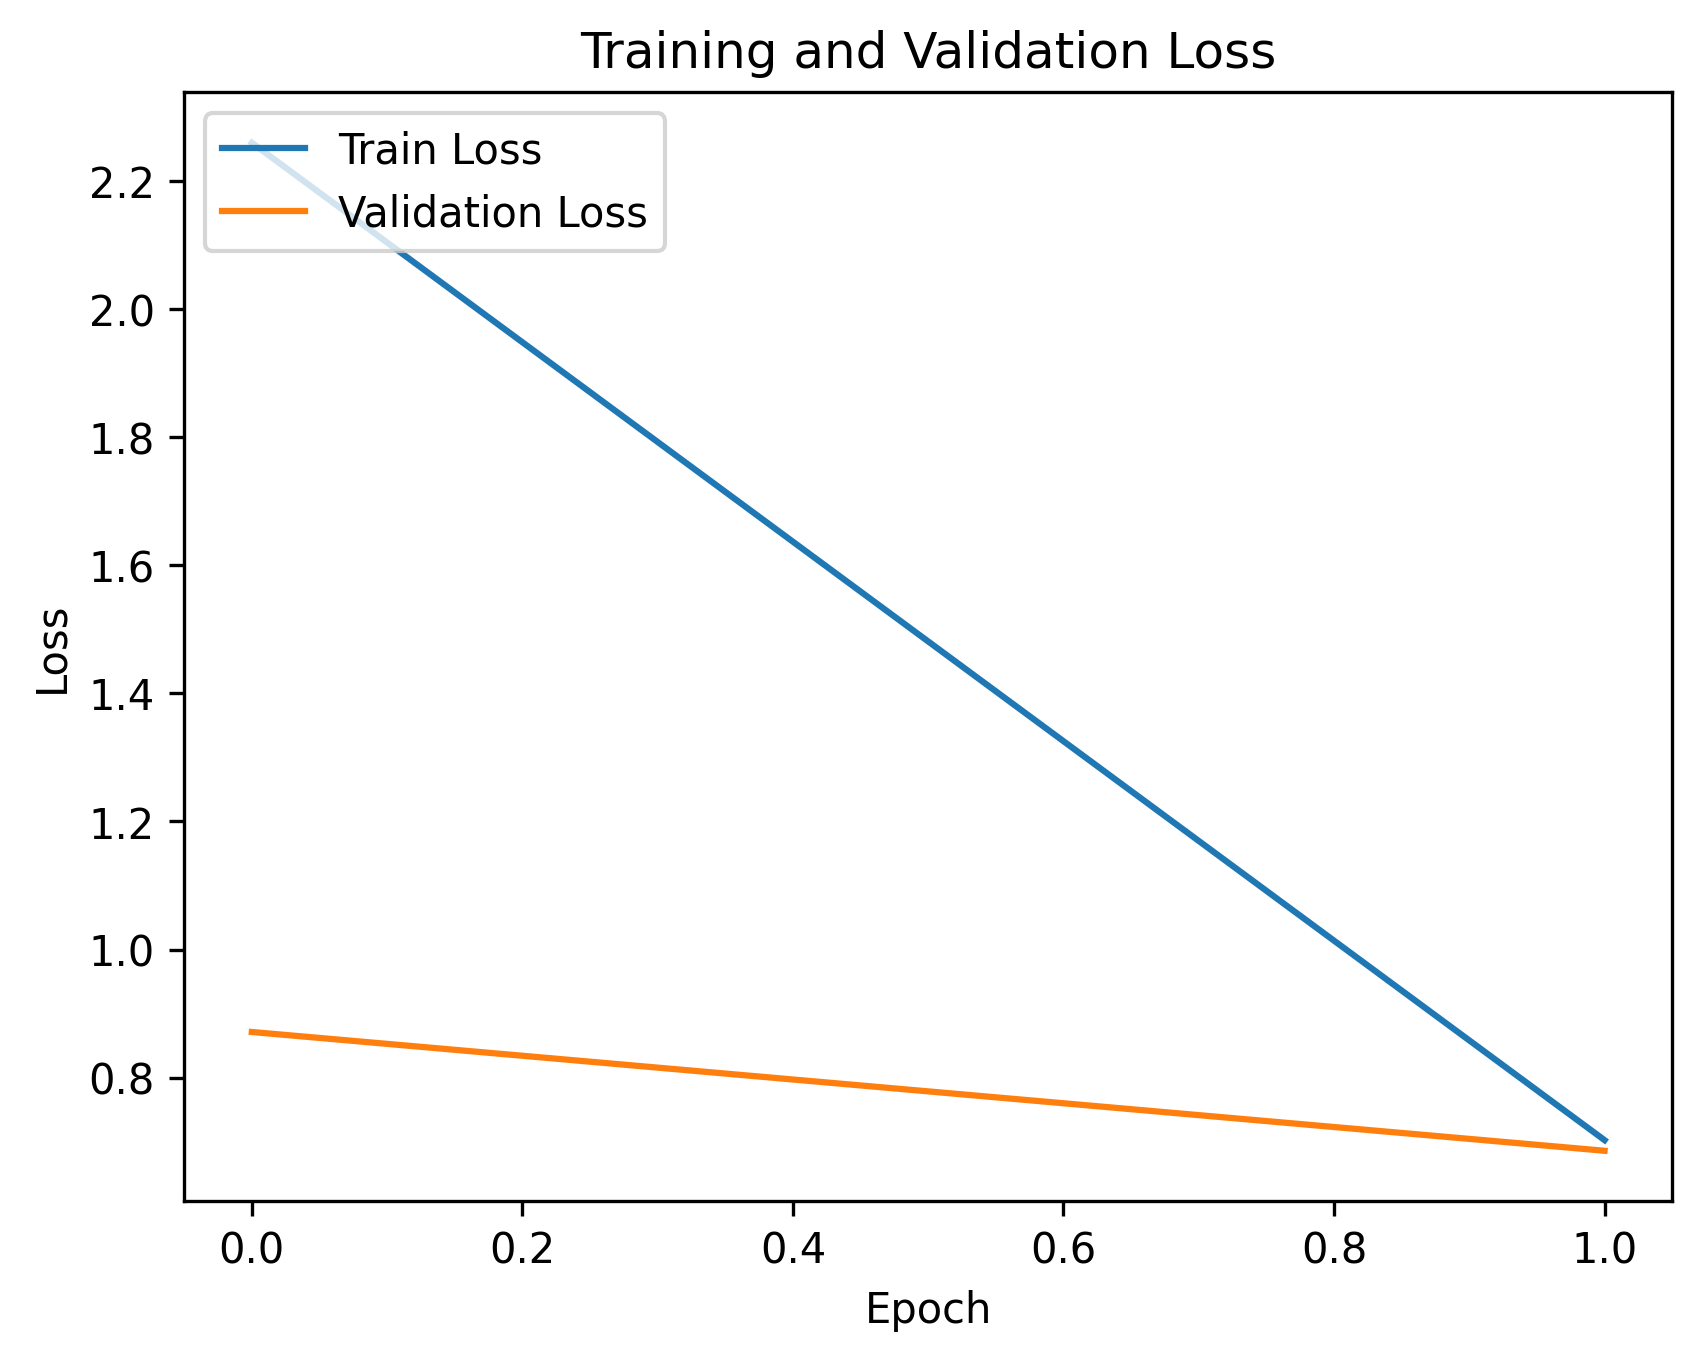
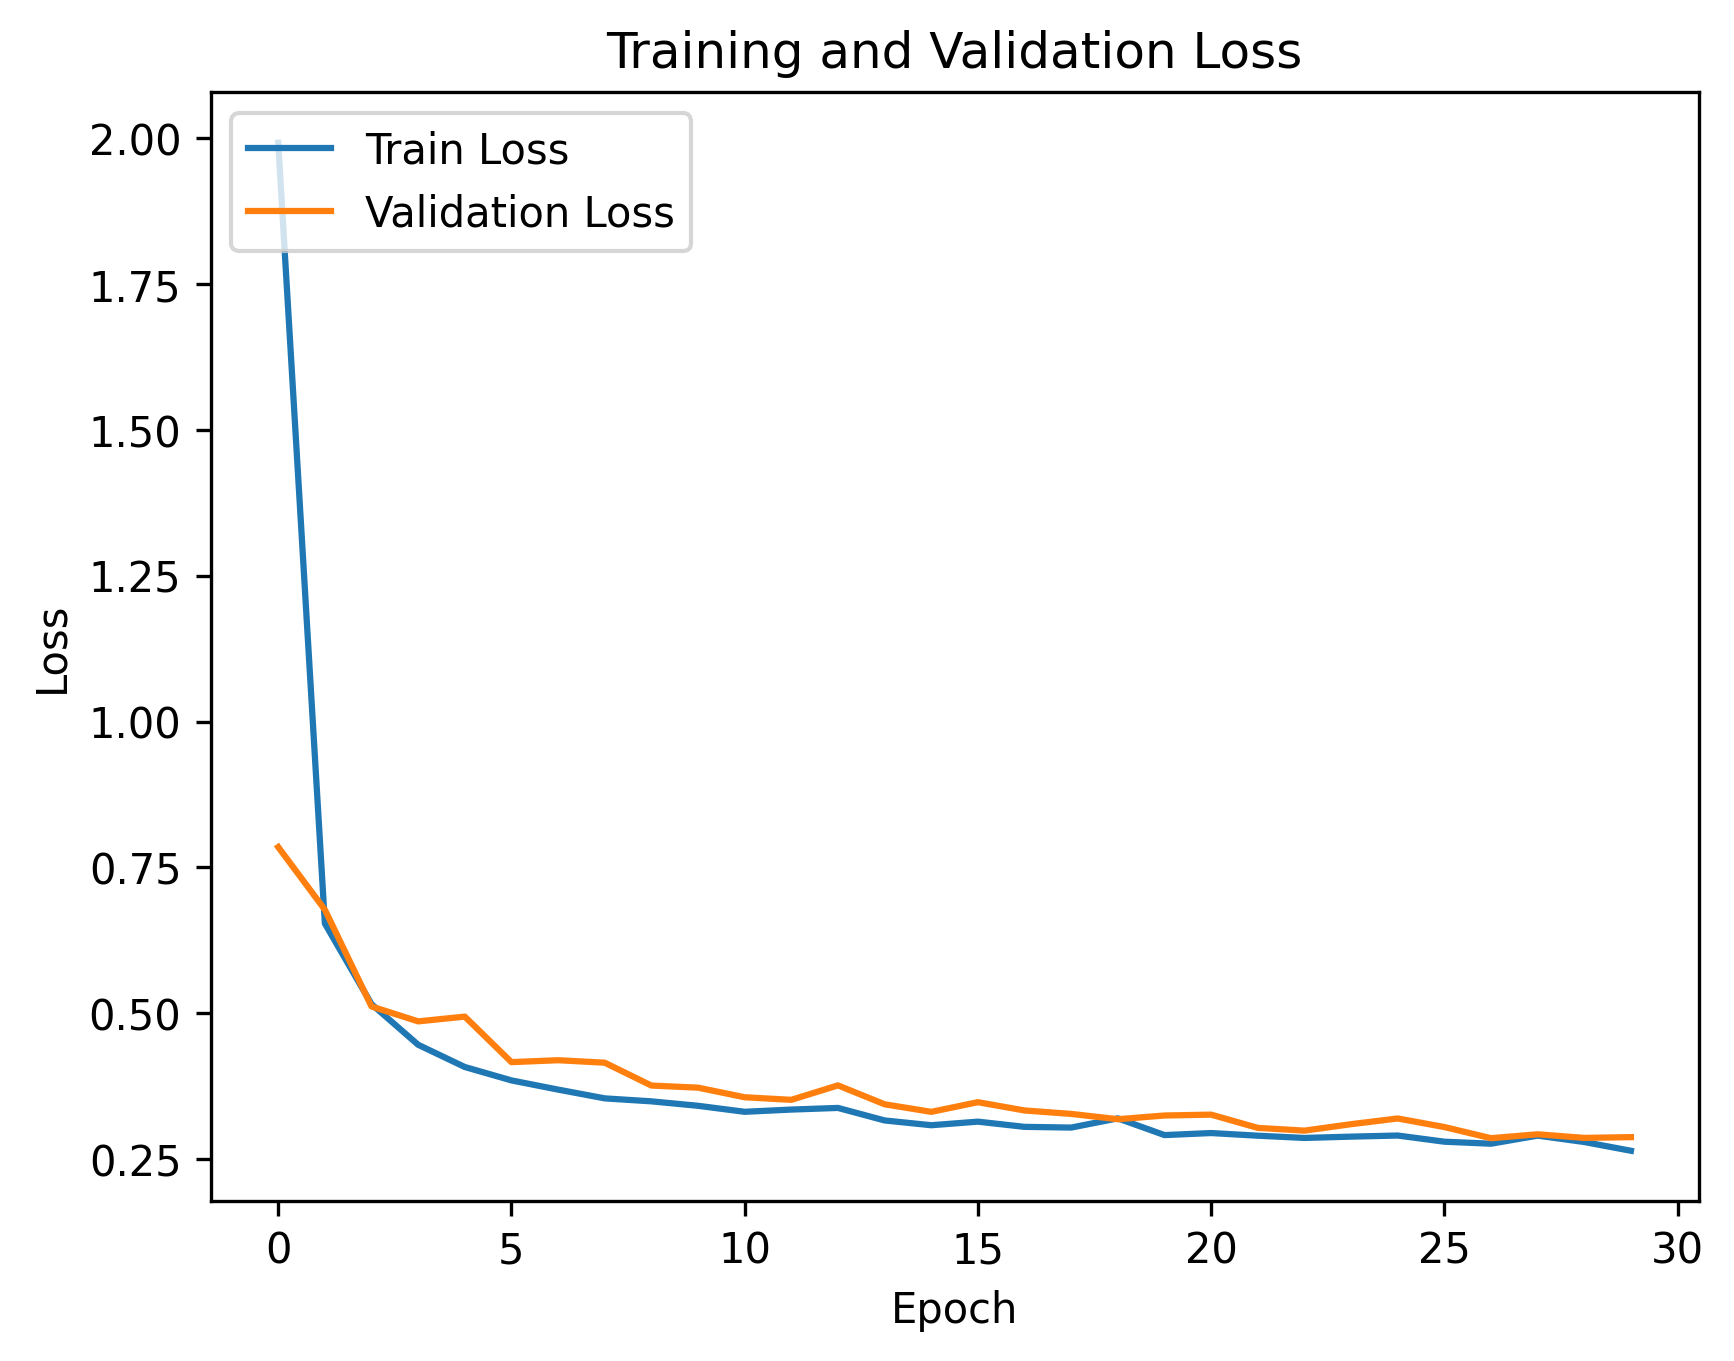
added output directory specific to the model being run

diff --git a/specmodel/audio_train.py b/specmodel/audio_train.py
@@ -8,7 +8,7 @@ import matplotlib.pyplot as plt
 
 device = torch.device("cuda" if torch.cuda.is_available() else "cpu")
 
-def train_mel(model_type, model, train_dataset, val_dataset, num_epochs=50, batch_size=4, lr=1e-4):
+def train_mel(model_type, model, train_dataset, val_dataset, num_epochs=50, batch_size=4, lr=1e-4, output_dir="../outputs"):
 
     train_dataloader = DataLoader(train_dataset, batch_size=batch_size, collate_fn=collate_fn, shuffle=True)
     val_dataloader = DataLoader(val_dataset, batch_size=batch_size, collate_fn=collate_fn, shuffle=False)
@@ -53,7 +53,7 @@ def train_mel(model_type, model, train_dataset, val_dataset, num_epochs=50, batc
     plt.ylabel('Loss')
     plt.legend(loc="upper left")
     plt.title('Training and Validation Loss')
-    plt.savefig("training vs val loss.png", dpi=300, bbox_inches="tight")
+    plt.savefig(f"{output_dir}/training vs val loss.png", dpi=300, bbox_inches="tight")
     plt.close()
 
 ###-- training functions for frame*freq_bin autoregression --###
@@ -100,34 +100,38 @@ def validate_framebin(model, dataloader, criterion):
 
     return total_loss / len(dataloader)
 
-def eval_framebin(model, dataset, seed_seconds=7.0, sr=22050, hop_length=256):
+def eval_framebin(model, dataset,num_examples=1, seed_seconds=7.0, sr=22050, hop_length=256):
     model.eval()
 
-    mel, filepath = dataset[0]  # (T, F)
-    mel = mel.to(device)
+    results=[]
 
-    seed_frames = int(seed_seconds * sr / hop_length)
+    for i in range(num_examples):
+        mel, filepath = dataset[i]  # (T, F)
+        mel = mel.to(device)
 
-    seed = mel[:seed_frames].unsqueeze(0)  # (1, T_seed, F)
+        seed_frames = int(seed_seconds * sr / hop_length)
 
-    #flatten
-    generated = seed.reshape(1, -1, 1)
+        seed = mel[:seed_frames].unsqueeze(0)  # (1, T_seed, F)
 
-    total_bins = mel.shape[0] * mel.shape[1]
-    seed_bins = generated.shape[1]
+        #flatten
+        generated = seed.reshape(1, -1, 1)
 
-    num_future = total_bins - seed_bins
+        total_bins = mel.shape[0] * mel.shape[1]
+        seed_bins = generated.shape[1]
 
-    with torch.no_grad():
-        for _ in range(num_future):
-            preds = model(generated)
-            next_bin = preds[:, -1:, :]
-            generated = torch.cat([generated, next_bin], dim=1)
+        num_future = total_bins - seed_bins
 
-    #reshape back
-    generated = generated.reshape(1, mel.shape[0], mel.shape[1])
+        with torch.no_grad():
+            for _ in range(num_future):
+                preds = model(generated)
+                next_bin = preds[:, -1:, :]
+                generated = torch.cat([generated, next_bin], dim=1)
 
-    return mel.cpu(), generated.squeeze(0).cpu(), filepath
+        #reshape back
+        generated = generated.reshape(1, mel.shape[0], mel.shape[1])
+        results.append((mel.cpu(),generated,filepath))
+
+    return results
 
 #--------------------------------------------------------------#
 
@@ -177,28 +181,28 @@ def validate_frame(model, dataloader, criterion):
 
     return total_loss / len(dataloader)
 
-def eval_frame(model, dataset, seed_seconds=7.0, sr=22050, hop_length=256):
+def eval_frame(model, dataset, num_examples=1, seed_seconds=7.0, sr=22050, hop_length=256):
     model.eval()
 
-    mel, filepath = dataset[0]  # (T, 80)
-    mel = mel.to(device)
+    results = []
 
-    seed_frames = int(seed_seconds * sr / hop_length)
+    for i in range(num_examples):
 
-    seed = mel[:seed_frames].unsqueeze(0)  # (1, T_seed, 80)
+        mel, filepath = dataset[i]  # (T, 80)
+        mel = mel.to(device)
 
-    generated = seed.clone()
+        seed_frames = int(seed_seconds * sr / hop_length)
+        seed = mel[:seed_frames].unsqueeze(0)  # (1, T_seed, 80)
+        generated = seed.clone()
 
-    num_future = mel.shape[0] - seed_frames
+        num_future = mel.shape[0] - seed_frames
+        with torch.no_grad():
+            for _ in range(num_future):
+                preds = model(generated)
+                next_frame = preds[:, -1:, :]  # last timestep
+                generated = torch.cat([generated, next_frame], dim=1)
 
-    with torch.no_grad():
-        for _ in range(num_future):
-            preds = model(generated)
+        generated = generated.squeeze(0).cpu()
+        results.append((mel.cpu(),generated,filepath))
 
-            next_frame = preds[:, -1:, :]  # last timestep
-
-            generated = torch.cat([generated, next_frame], dim=1)
-
-    generated = generated.squeeze(0).cpu()
-
-    return mel.cpu(), generated, filepath
+    return results

diff --git a/specmodel/mel_trainer.py b/specmodel/mel_trainer.py
@@ -6,8 +6,9 @@ import argparse
 import time
 
 import json
-
 import sys
+import os
+
 sys.path.append('../')
 
 def main(): 
@@ -30,7 +31,12 @@ def main():
     
     parser.add_argument("--mel_dir", 
                         type=str, 
-                        default="../data/mels/1-of-15")
+                        default="../data/mels")
+    
+    parser.add_argument("--output_dir", 
+                        type=str, 
+                        help="output directory for training vs val loss plots and spectrogram plots",
+                        default="../outputs")
     
     parser.add_argument("--train_split", 
                         type=float, 
@@ -46,9 +52,18 @@ def main():
                         type=str, 
                         default="MelTransformerFrame"
                         )
+    
+    parser.add_argument("--n_examples", 
+                        type=int, 
+                        help="number of examples to generate ground truth vs predicted plots for",
+                        default=2
+                        )
 
     args = parser.parse_args()
 
+    output_dir = args.output_dir + f"/{args.model}"
+    os.makedirs(output_dir, exist_ok=True)
+    
     try:
         with open('config.json', 'r') as file:
             mel_config = json.load(file)
@@ -125,25 +140,33 @@ def main():
     print(f"{args.model}: n_mels: {N_MELS}, d_model: {D_MODEL}, n_heads: {N_HEADS}, n_layers: {N_LAYERS}, dim_feedforward : {D_FF}, dropout: {DROPOUT}")
     print("--------------------------")
 
-    start_time = time.perf_counter()
+    start_time_train = time.perf_counter()
 
-    train_mel(model_type=args.model, model=model, train_dataset=train_set, val_dataset=val_set, num_epochs=args.epochs, batch_size=args.batch_size, lr=args.lr)
+    train_mel(model_type=args.model, model=model, train_dataset=train_set, val_dataset=val_set, num_epochs=args.epochs, batch_size=args.batch_size, lr=args.lr, output_dir=output_dir)
 
-    end_time = time.perf_counter()
-    elapsed = end_time - start_time
-    print(f"\nTraining completed in {elapsed:.2f} seconds ({elapsed/60:.2f} minutes)")
+    end_time_train = time.perf_counter()
+    elapsed_train = end_time_train - start_time_train
+    print(f"\nTraining completed in {elapsed_train:.2f} seconds ({elapsed_train/60:.2f} minutes)")
     
     seed_frames = int(CLIP_LENGTH - MASK_SECONDS) #in seconds
+    results=[]
+        
+    start_time_inference = time.perf_counter()
+
     if(args.model=="MelTransformerFrame"):
-        ground_truth_mel, predicted_mel, filepath = eval_frame(model, val_set, seed_seconds=seed_frames)
+        results = eval_frame(model, val_set, num_examples=args.n_examples, seed_seconds=seed_frames)
     elif(args.model=="MelTransformerFrameBin"):
-        ground_truth_mel, predicted_mel , filepath = eval_framebin(model, val_set, seed_seconds=seed_frames)
+        results = eval_framebin(model, val_set, num_examples=args.n_examples, seed_seconds=seed_frames)
+
+    end_time_inference = time.perf_counter()
+    elapsed_inference = end_time_inference - start_time_inference
+    print(f"\nInference completed in {elapsed_inference:.2f} seconds ({elapsed_inference/60:.2f} minutes)")
 
     #generator = get_hifi_gan_generator()
     #write_to_waveform("ground_truth_wav.wav", ground_truth_mel, generator, SAMPLE_RATE)
     #write_to_waveform("predicted_wav.wav", predicted_mel, generator, SAMPLE_RATE)
-    compare_mels(filepath=filepath, model_type=args.model, groundtruth=ground_truth_mel, predmel=predicted_mel, sample_rate=SAMPLE_RATE, hop_length=HOP_LENGTH)
-
+    for ground_truth_mel, predicted_mel, filepath in results:
+        compare_mels(filepath=filepath, model_type=args.model, groundtruth=ground_truth_mel, predmel=predicted_mel, sample_rate=SAMPLE_RATE, hop_length=HOP_LENGTH, output_dir=output_dir)
 
 if __name__ == "__main__":
     main()

diff --git a/specmodel/mel_utils.py b/specmodel/mel_utils.py
@@ -9,6 +9,8 @@ from env import AttrDict
 import matplotlib.pyplot as plt
 import librosa
 import os
+from datetime import datetime
+
 
 
 def write_to_waveform(filename, mel_tensor, generator, sr):
@@ -46,7 +48,7 @@ def get_hifi_gan_generator():
     generator.remove_weight_norm()
     return generator
 
-def compare_mels(filepath, model_type, groundtruth, predmel, sample_rate, hop_length):
+def compare_mels(filepath, model_type, groundtruth, predmel, sample_rate, hop_length, output_dir="../outputs"):
     #mel specs are (2583, 80) #time x n_mels, librosa expects n_mels x time
     gt_np = groundtruth.detach().cpu().numpy().T
     pred_np = predmel.detach().cpu().numpy().T
@@ -60,8 +62,9 @@ def compare_mels(filepath, model_type, groundtruth, predmel, sample_rate, hop_le
     plt.figure(figsize=(14, 5))
 
     filename = os.path.basename(filepath)
+    timestamp = datetime.now().strftime("%Y-%m-%d_%H-%M-%S")
 
-    plt.suptitle(f"{model_type} | {filepath}", fontsize=12)
+    plt.suptitle(f"{model_type} | {filepath} | {timestamp}", fontsize=12)
 
     # --- Ground Truth ---
     plt.subplot(1, 2, 1)
@@ -93,5 +96,5 @@ def compare_mels(filepath, model_type, groundtruth, predmel, sample_rate, hop_le
     plt.title("Prediction")
     plt.colorbar(img2, format="%+2.0f", label="Log Mel energy (natural log not dB)")
 
-    plt.savefig(f"mel_debug_{model_type}_{filename}.png", dpi=300, bbox_inches="tight")
+    plt.savefig(f"{output_dir}/mel_debug_{model_type}_{filename}.png", dpi=300, bbox_inches="tight")
     plt.close()
